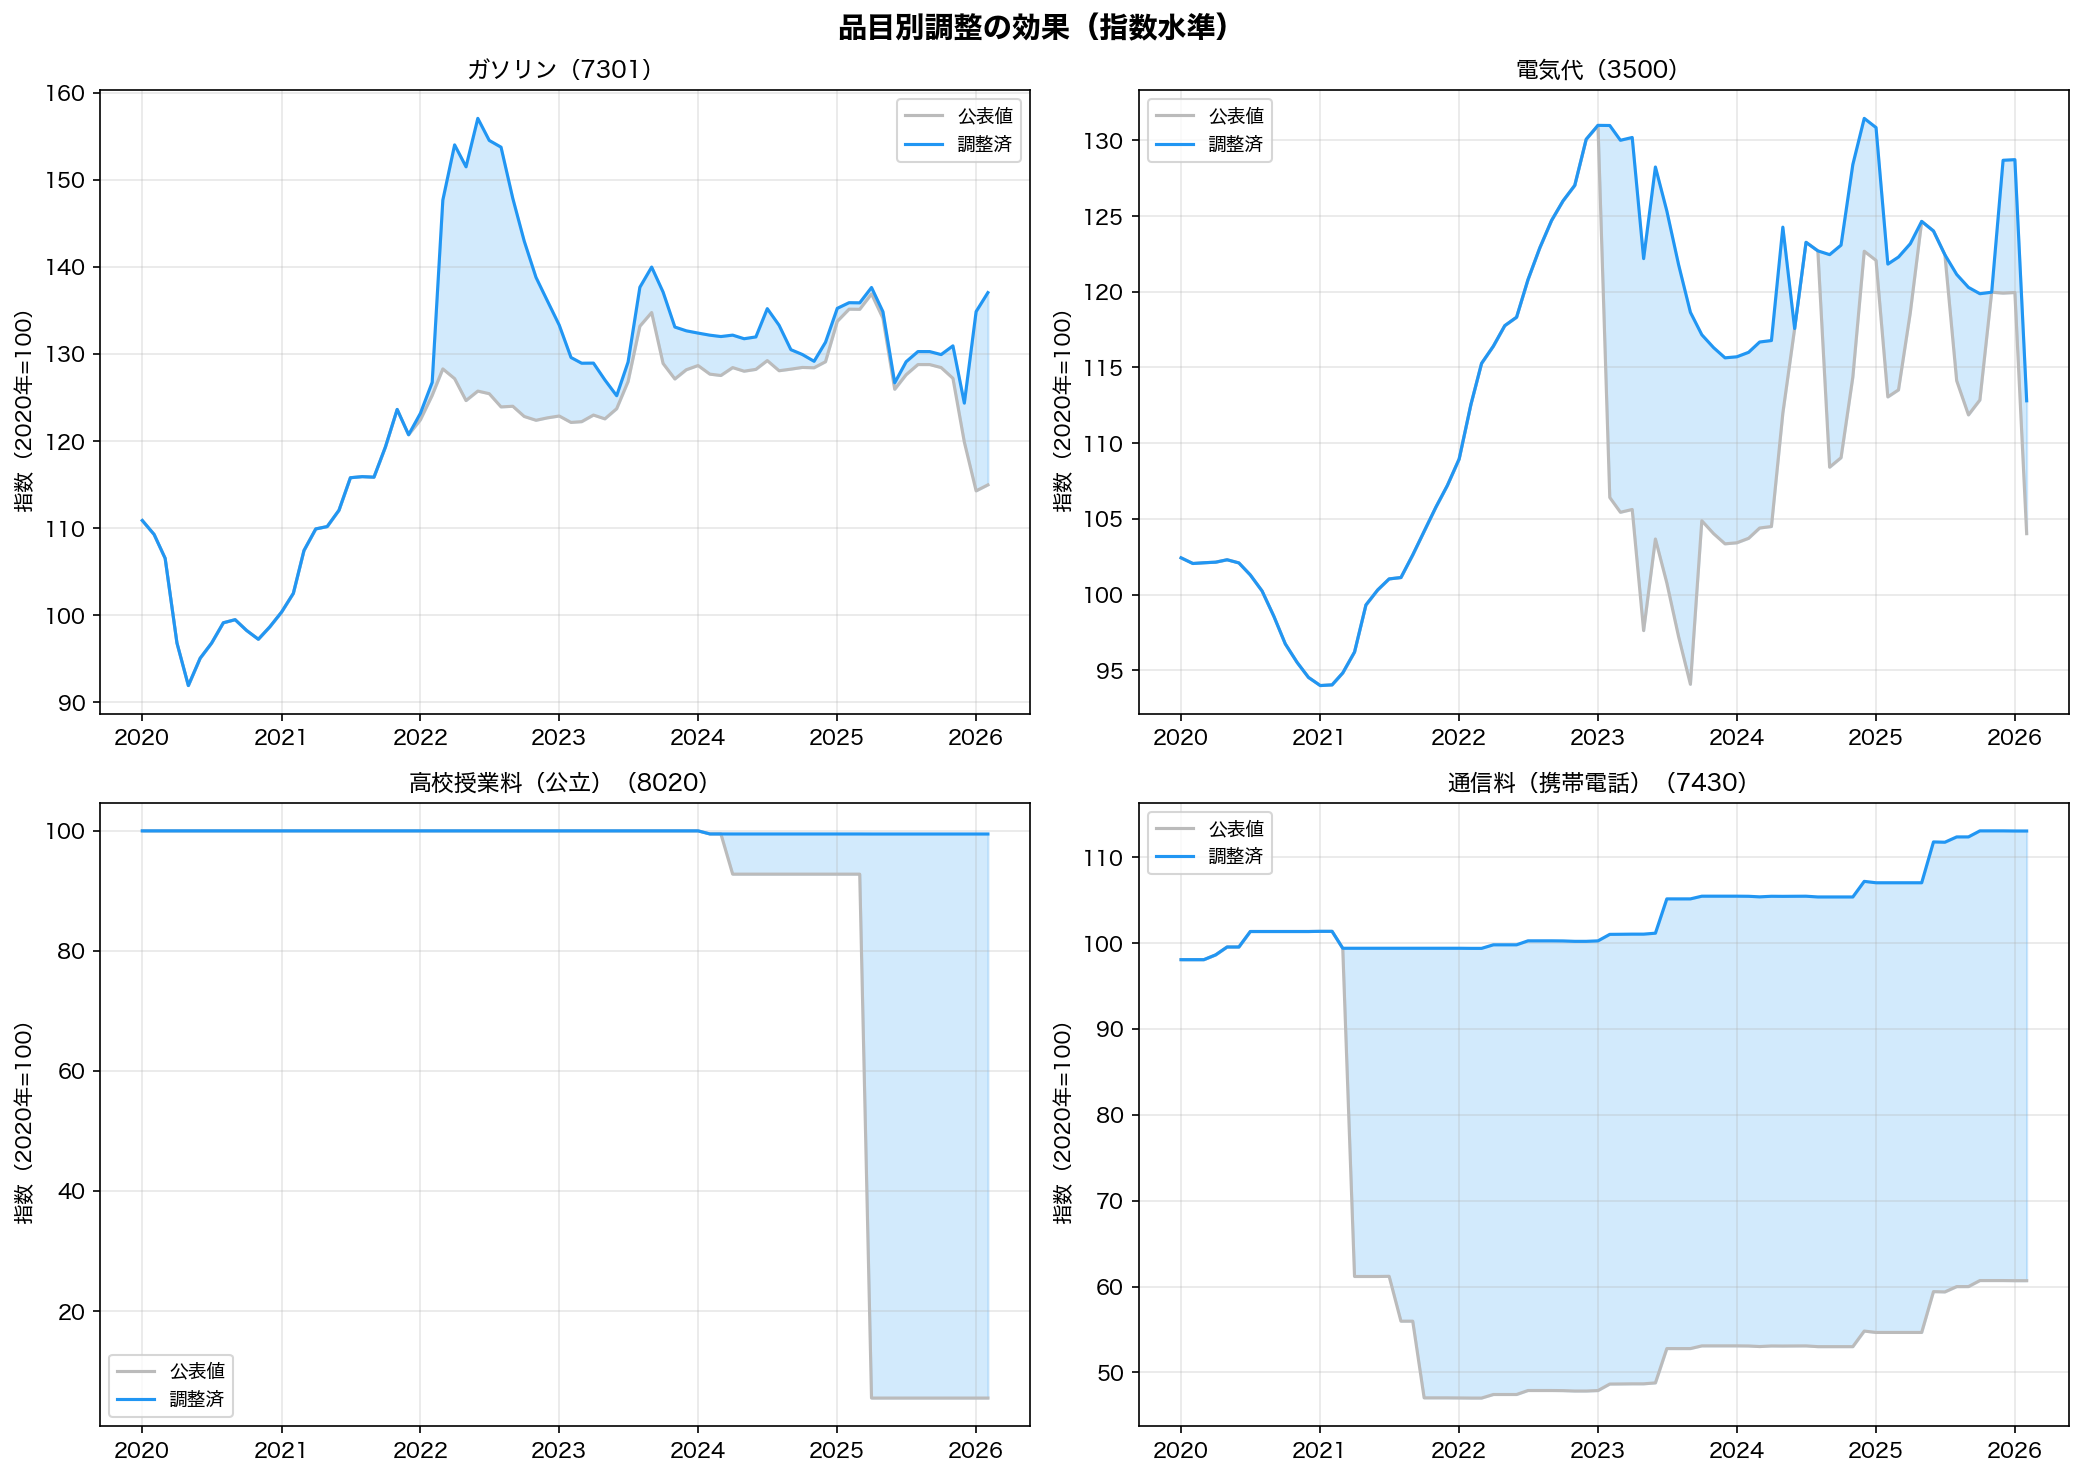
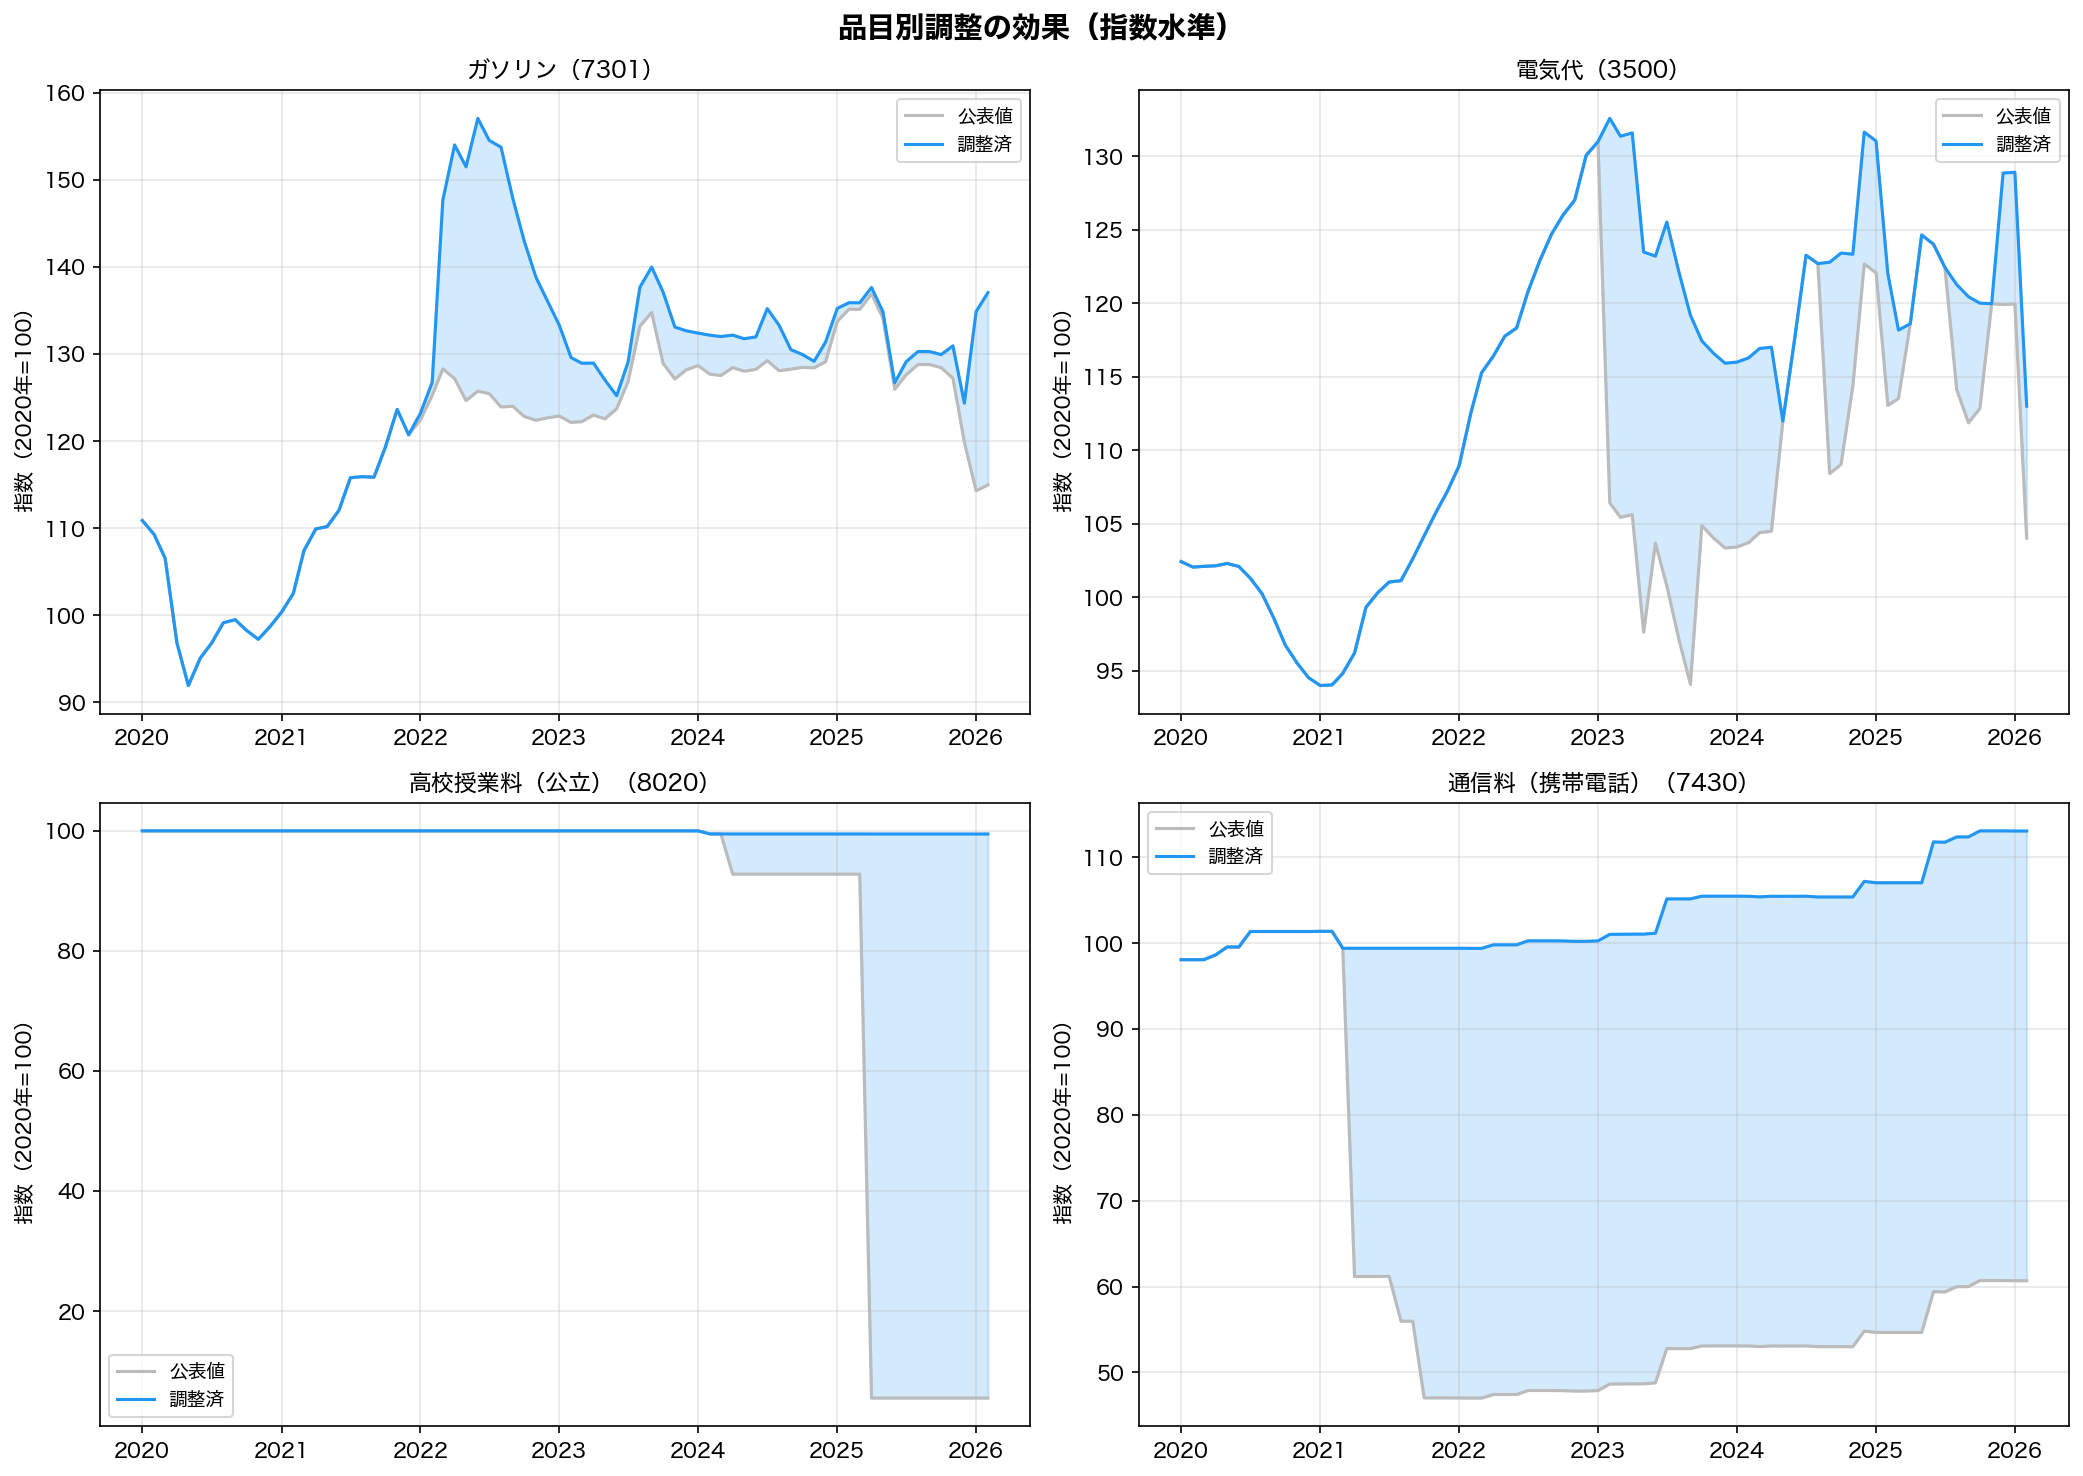
電気代をモデル価格方式に改修
TEPCO従量電灯B（30A, 330kWh）ベースのモデル価格で調整:
- 燃調単価の月次データ（措置反映前/後）を使用
- 基本料金の改定（2023年6月）を反映
- 再エネ賦課金の年度別変動を反映
- 口座振替割引の廃止（2025年4月）を反映

感応度の固定値推定（3.51pt/円kWh）を不要にし、
モデル価格比（without/with subsidy）で正確に補正。

直近6ヶ月MAE: core=0.10pp, core_core=0.03pp, boj_core=0.03pp

diff --git a/src/model_electricity.py b/src/model_electricity.py
@@ -1,0 +1,152 @@
+"""電気代モデル価格による調整（東京電力 従量電灯Bベース）
+
+CPIの電気代指数は10電力会社×5使用量パターン×2区分の加重平均だが、
+ここでは東京電力の従量電灯B（30A）をモデルとして使用。
+
+モデル式:
+  月額 = 基本料金 + Σ(段階別単価 + 燃調単価) × 段階内kWh
+         + 再エネ賦課金 × 総kWh - 口座振替割引
+
+調整方式:
+  補助金ありの燃調単価で計算した月額 → 公表CPIに対応
+  補助金なしの燃調単価で計算した月額 → 調整済CPIに対応
+
+  調整比 = P_no_subsidy(t) / P_with_subsidy(t)
+  I_adj(t) = I_CPI(t) × 調整比
+
+  これにより感応度の固定値推定を不要にし、
+  燃調・再エネ・基本料金の変化を正確に反映する。
+"""
+
+import pandas as pd
+
+from src.config import POLICY_DIR
+
+ELECTRICITY_ITEM_CODE = "3500"
+DEFAULT_USAGE_KWH = 330  # 5パターンの中央値
+
+
+def _load_rates() -> pd.DataFrame:
+    """TEPCO料金テーブルを読み込み"""
+    return pd.read_csv(POLICY_DIR / "tepco_rates.csv")
+
+
+def _load_fuel_adj() -> pd.DataFrame:
+    """燃調単価の月次データを読み込み"""
+    return pd.read_csv(POLICY_DIR / "tepco_fuel_adjustment.csv")
+
+
+def _load_renew_surcharge() -> pd.DataFrame:
+    """再エネ賦課金テーブルを読み込み"""
+    return pd.read_csv(POLICY_DIR / "renew_energy_surcharge.csv")
+
+
+def _get_rate_for_month(rates_df: pd.DataFrame, ym: str) -> dict:
+    """指定月に適用される料金を返す"""
+    applicable = rates_df[rates_df["effective_from"] <= ym]
+    if len(applicable) == 0:
+        raise ValueError(f"料金データがありません: {ym}")
+    row = applicable.iloc[-1]
+    return {
+        "basic": row["basic_30a"],
+        "tier1_limit": int(row["tier1_limit"]),
+        "tier1_rate": row["tier1_rate"],
+        "tier2_limit": int(row["tier2_limit"]),
+        "tier2_rate": row["tier2_rate"],
+        "tier3_rate": row["tier3_rate"],
+        "discount": row["discount"],
+    }
+
+
+def _get_renew_surcharge(surcharge_df: pd.DataFrame, ym: str) -> float:
+    """指定月の再エネ賦課金単価を返す"""
+    for _, row in surcharge_df.iterrows():
+        if row["effective_from"] <= ym <= row["effective_to"]:
+            return row["surcharge_per_kwh"]
+    # 範囲外の場合は最後の値を使う
+    return surcharge_df.iloc[-1]["surcharge_per_kwh"]
+
+
+def compute_model_price(
+    rate: dict,
+    fuel_adj: float,
+    renew_surcharge: float,
+    usage_kwh: int = DEFAULT_USAGE_KWH,
+) -> float:
+    """モデル月額料金を計算
+
+    Args:
+        rate: 料金テーブル（_get_rate_for_monthの戻り値）
+        fuel_adj: 燃料費調整単価（円/kWh）
+        renew_surcharge: 再エネ賦課金（円/kWh）
+        usage_kwh: 使用量（kWh）
+
+    Returns:
+        月額料金（円）
+    """
+    basic = rate["basic"]
+    discount = rate["discount"]
+
+    # 段階別の従量料金計算
+    tier1 = min(usage_kwh, rate["tier1_limit"])
+    tier2 = min(max(usage_kwh - rate["tier1_limit"], 0),
+                rate["tier2_limit"] - rate["tier1_limit"])
+    tier3 = max(usage_kwh - rate["tier2_limit"], 0)
+
+    energy_charge = (
+        tier1 * (rate["tier1_rate"] + fuel_adj)
+        + tier2 * (rate["tier2_rate"] + fuel_adj)
+        + tier3 * (rate["tier3_rate"] + fuel_adj)
+    )
+
+    renew_charge = renew_surcharge * usage_kwh
+
+    return basic + energy_charge + renew_charge - discount
+
+
+def compute_adjusted_index(
+    cpi_index: pd.Series,
+    usage_kwh: int = DEFAULT_USAGE_KWH,
+) -> pd.Series:
+    """電気代の調整済CPI指数を算出（モデル価格方式）
+
+    補助金ありと補助金なしのモデル価格を計算し、その比で調整。
+
+    Args:
+        cpi_index: CPIの電気代指数（月次）
+        usage_kwh: モデル使用量
+
+    Returns:
+        調整済CPI指数
+    """
+    rates_df = _load_rates()
+    fuel_df = _load_fuel_adj()
+    surcharge_df = _load_renew_surcharge()
+
+    fuel_dict_with = dict(zip(fuel_df["year_month"], fuel_df["fuel_adj_with_subsidy"]))
+    fuel_dict_without = dict(zip(fuel_df["year_month"], fuel_df["fuel_adj_without_subsidy"]))
+
+    adjusted = cpi_index.copy()
+
+    for ym in cpi_index.index:
+        if ym not in fuel_dict_with or ym not in fuel_dict_without:
+            continue
+
+        fuel_with = fuel_dict_with[ym]
+        fuel_without = fuel_dict_without[ym]
+
+        # 補助金なしの場合と同じなら調整不要
+        if abs(fuel_with - fuel_without) < 0.001:
+            continue
+
+        rate = _get_rate_for_month(rates_df, ym)
+        renew = _get_renew_surcharge(surcharge_df, ym)
+
+        price_with = compute_model_price(rate, fuel_with, renew, usage_kwh)
+        price_without = compute_model_price(rate, fuel_without, renew, usage_kwh)
+
+        # 調整比でCPI指数を補正
+        ratio = price_without / price_with
+        adjusted[ym] = cpi_index[ym] * ratio
+
+    return adjusted

diff --git a/scripts/plot_results.py b/scripts/plot_results.py
@@ -18,6 +18,7 @@ from src.item_master import load_item_master
 from src.aggregate import compute_weighted_index, compute_yoy, get_official_series
 from src.adjust_gasoline import compute_adjusted_index as adjust_gasoline
 from src.adjust_kerosene import compute_adjusted_index as adjust_kerosene
+from src.model_electricity import compute_adjusted_index as adjust_electricity
 from src.adjust_energy import compute_adjusted_index as adjust_energy
 from src.adjust_education import get_all_education_adjusted
 from src.adjust_interpolation import adjust_mobile, adjust_hotel
@@ -37,7 +38,7 @@ def build_adjusted_indices():
     indices_adj = indices.copy()
     indices_adj["7301"] = adjust_gasoline(indices["7301"])
     indices_adj["3701"] = adjust_kerosene(indices["3701"])
-    indices_adj["3500"] = adjust_energy(indices["3500"], "electricity")
+    indices_adj["3500"] = adjust_electricity(indices["3500"])
     indices_adj["3600"] = adjust_energy(indices["3600"], "gas")
     for code, adj in get_all_education_adjusted(indices).items():
         indices_adj[code] = adj
